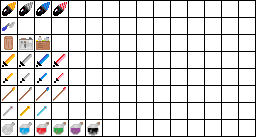
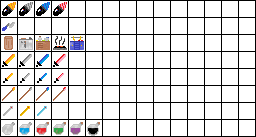
added fireplace, a tile that provides player with health regeneration when nearby

Changed region(s): [[0.1875, 0.2628, 0.3438, 0.3796], [0.3438, 0.9343, 0.375, 0.9927]]

diff --git a/src/com/company/Board/Board.java b/src/com/company/Board/Board.java
@@ -4,6 +4,7 @@ import com.company.CaveExplorer;
 import com.company.GameValues;
 import com.company.MonsterSpawnerAndHandler;
 import com.company.Scenes.MainGameScene;
+import com.company.Tiles.DynamicTile;
 import com.company.Tiles.Tile;
 import com.company.Tiles.TileTypes;
 import javafx.scene.effect.ColorAdjust;
@@ -103,6 +104,13 @@ public class Board extends Pane {
     }
 
     // culls distant tiles
+    private void cullTile(int x, int y){
+        getChildren().remove(getTiles()[x][y]);
+        if(getTiles()[x][y] instanceof DynamicTile){
+            ((DynamicTile)getTiles()[x][y]).getChanges().stop();
+        }
+        getTiles()[x][y] = null;
+    }
     public void cullDistantTiles(int range, int cullWidth) {
 
         int xMin = CaveExplorer.getPlayerCharacter().roundTileX() - range >= 0 ? CaveExplorer.getPlayerCharacter().roundTileX() - range : 0;
@@ -113,8 +121,7 @@ public class Board extends Pane {
         if (xMin > cullWidth) {
             for (int x = xMin; x < xMin + cullWidth; x++) {
                 for (int y = yMin; y < yMax; y++) {
-                    getChildren().remove(getTiles()[x][y]);
-                    getTiles()[x][y] = null;
+                   cullTile(x,y);
                 }
             }
         }
@@ -122,8 +129,7 @@ public class Board extends Pane {
         if (yMax < MainGameScene.getBoard().getBoardTileTypes()[0].length - cullWidth) {
             for (int x = xMax - cullWidth; x < xMax; x++) {
                 for (int y = yMin; y < yMax; y++) {
-                    getChildren().remove(getTiles()[x][y]);
-                    getTiles()[x][y] = null;
+                    cullTile(x,y);
                 }
             }
         }
@@ -131,8 +137,7 @@ public class Board extends Pane {
         if (yMin > cullWidth) {
             for (int x = xMin; x < xMax; x++) {
                 for (int y = yMin; y < yMin + cullWidth; y++) {
-                    getChildren().remove(getTiles()[x][y]);
-                    getTiles()[x][y] = null;
+                    cullTile(x,y);
                 }
             }
         }
@@ -140,8 +145,7 @@ public class Board extends Pane {
         if (xMax < MainGameScene.getBoard().getBoardTileTypes().length - cullWidth) {
             for (int x = xMin; x < xMax; x++) {
                 for (int y = yMax - cullWidth; y < yMax; y++) {
-                    getChildren().remove(getTiles()[x][y]);
-                    getTiles()[x][y] = null;
+                    cullTile(x,y);
                 }
             }
         }

diff --git a/src/com/company/HUD/InventoryWindow/CraftingPane.java b/src/com/company/HUD/InventoryWindow/CraftingPane.java
@@ -3,6 +3,7 @@ package com.company.HUD.InventoryWindow;
 import com.company.CaveExplorer;
 import com.company.Crafting.CraftingRecipe;
 import com.company.Crafting.PlaceableObjects.Recipe_AlchemyLab;
+import com.company.Crafting.PlaceableObjects.Recipe_Fireplace;
 import com.company.Crafting.PlaceableObjects.Recipe_Workshop;
 import com.company.Crafting.PotionsAndElixirs.*;
 import com.company.Crafting.Tools.*;
@@ -97,16 +98,16 @@ public class CraftingPane extends ScrollPane {
 
 
         private void hoverOn(){
-            setBackground(new Background(new BackgroundFill(GameValues.GUI_FULL_BLUE, new CornerRadii(5), null)));
+            setBackground(new Background(new BackgroundFill(GameValues.GUI_FULL_BLUE_OPAQUE, new CornerRadii(5), null)));
         }
 
         private void hoverOff(){
-            setBackground(new Background(new BackgroundFill(GameValues.GUI_FLASH_BLUE, new CornerRadii(5), null)));
+            setBackground(new Background(new BackgroundFill(GameValues.GUI_OVERLAY_BLUE_OPAQUE, new CornerRadii(5), null)));
         }
 
         private CraftingRecipePane(CraftingRecipe craftingRecipe){
             setPrefSize(PREF_WIDTH-9, 30);
-            setBackground(new Background(new BackgroundFill(GameValues.GUI_FLASH_BLUE, new CornerRadii(5), null)));
+            setBackground(new Background(new BackgroundFill(GameValues.GUI_OVERLAY_BLUE_OPAQUE, new CornerRadii(5), null)));
 
 
 
@@ -121,7 +122,7 @@ public class CraftingPane extends ScrollPane {
                 setOnMouseExited(e->hoverOff());
                 setOnMouseDragExited(e->hoverOff());
             } else {
-                setOpacity(0.5);
+                setOpacity(0.6);
             }
 
 
@@ -178,7 +179,8 @@ public class CraftingPane extends ScrollPane {
 
         // available always
         addRecipesToDisplay(
-            new Recipe_Workshop()
+            new Recipe_Workshop(),
+            new Recipe_Fireplace()
         );
 
         // available near water

diff --git a/src/com/company/Tiles/Tile_Const_Fireplace.java b/src/com/company/Tiles/Tile_Const_Fireplace.java
@@ -1,0 +1,52 @@
+package com.company.Tiles;
+
+import com.company.CaveExplorer;
+import com.company.ImageBank;
+import javafx.animation.AnimationTimer;
+
+public class Tile_Const_Fireplace extends DynamicTile {
+
+    @Override
+    void buildBackGround() {
+        setImage(ImageBank.getMapTiles1());
+        setViewByRowAndCol(7,0);
+    }
+
+    private Tile_Const_Fireplace thisTile = this;
+
+    @Override
+    protected void setChanges() {
+
+        changes = new AnimationTimer() {
+
+            int time = 0;
+            int rotationLength = 100;
+            double maxRange = 2;
+
+            // player slowly regenerates while near the fireplace
+
+            @Override
+            public void handle(long now) {
+                time++;
+                if(time >= rotationLength){
+                    time=0;
+                    double x = CaveExplorer.getPlayerCharacter().getTileX() - thisTile.x;
+                    double y = CaveExplorer.getPlayerCharacter().getTileY() - thisTile.y;
+                    if(Math.abs(x) <= maxRange && Math.abs(y) <= maxRange){
+                        CaveExplorer.getPlayerCharacter().healDamage(1);
+                    }
+                }
+            }
+        };
+    }
+
+
+
+    public Tile_Const_Fireplace(){
+        super();
+        setMovementBlocking(true);
+        setBreakable(true);
+        setReplaceable(false);
+        setDurability(5);
+    }
+}

diff --git a/src/com/company/HUD/InventoryWindow/ItemPane.java b/src/com/company/HUD/InventoryWindow/ItemPane.java
@@ -42,13 +42,13 @@ public class ItemPane extends StackPane {
 
 
     public void select(){
-        setBackground(new Background(new BackgroundFill(GameValues.GUI_FULL_BLUE, new CornerRadii(10), new Insets(5,5,5,5))));
+        setBackground(new Background(new BackgroundFill(GameValues.GUI_FULL_BLUE_OPAQUE, new CornerRadii(10), new Insets(5,5,5,5))));
         setScaleX(1.05);
         setScaleX(1.05);
     }
 
     public void unSelect(){
-        setBackground(new Background(new BackgroundFill(GameValues.GUI_OVERLAY_BLUE, new CornerRadii(10), new Insets(5,5,5,5))));
+        setBackground(new Background(new BackgroundFill(GameValues.GUI_OVERLAY_BLUE_OPAQUE, new CornerRadii(10), new Insets(5,5,5,5))));
         setScaleX(1.00);
         setScaleX(1.00);
     }
@@ -58,7 +58,7 @@ public class ItemPane extends StackPane {
         this.col = col;
         this.row = row;
         setPrefSize(40,40);
-        setBackground(new Background(new BackgroundFill(GameValues.GUI_OVERLAY_BLUE, new CornerRadii(10), new Insets(5,5,5,5))));
+        setBackground(new Background(new BackgroundFill(GameValues.GUI_OVERLAY_BLUE_OPAQUE, new CornerRadii(10), new Insets(5,5,5,5))));
         setAlignment(Pos.CENTER);
         buildItemView();
 

diff --git a/src/com/company/Agent/PlayerCharacter/PlayerInventory.java b/src/com/company/Agent/PlayerCharacter/PlayerInventory.java
@@ -3,10 +3,8 @@ package com.company.Agent.PlayerCharacter;
 import com.company.Items.Daggers.CopperDagger;
 import com.company.Items.Drills.CopperDrill;
 import com.company.Items.Item;
+import com.company.Items.PlaceableObjects.Fireplace;
 import com.company.Items.PotionsAndElixirs.PotionOfHealing;
-import com.company.Items.Staves.GoldStaff;
-import com.company.Items.Staves.PlatinumStaff;
-import com.company.Items.Staves.SilverStaff;
 import com.company.Resources.Resource;
 import com.company.Resources.ResourceType;
 import com.company.Scenes.MainGameScene;
@@ -123,10 +121,7 @@ public class PlayerInventory {
     private void addStartingItems(){
         itemsInInventory[0][5] = new CopperDrill();
         itemsInInventory[1][5] = new CopperDagger();
-        itemsInInventory[0][0] = new PotionOfHealing();
-        itemsInInventory[1][0] = new SilverStaff();
-        itemsInInventory[2][0] = new GoldStaff();
-        itemsInInventory[3][0] = new PlatinumStaff();
+        itemsInInventory[2][5] = new PotionOfHealing();
     }
 
 

diff --git a/src/com/company/PngMapGenerator.java b/src/com/company/PngMapGenerator.java
@@ -44,8 +44,10 @@ public final class PngMapGenerator {
                     case 14 : g2d.setColor(new Color(0,0,80)); break; // water
                     case 15 : g2d.setColor(new Color(250,20,0)); break; // lava
                     case 16 : g2d.setColor(new Color(80,40,0)); break; // crate
-                    case 17 : g2d.setColor(new Color(40,40,30)); break; // workshop
-                    case 18 : g2d.setColor(new Color(90,40,30)); break; // alchemy lab
+                    case 17 : g2d.setColor(new Color(80,80,80)); break; // gravel
+                    case 18 : g2d.setColor(new Color(40,40,30)); break; // workshop
+                    case 19 : g2d.setColor(new Color(90,40,30)); break; // alchemy lab
+                    case 20 : g2d.setColor(new Color(20,20,20)); break; // fireplace
                 }
                 g2d.drawLine(x, y, x, y);
             }

diff --git a/src/com/company/Items/ItemTypes.java b/src/com/company/Items/ItemTypes.java
@@ -11,6 +11,7 @@ import com.company.Items.Drills.CobaltDrill;
 import com.company.Items.Drills.CopperDrill;
 import com.company.Items.Drills.IronDrill;
 import com.company.Items.PlaceableObjects.AlchemyLab;
+import com.company.Items.PlaceableObjects.Fireplace;
 import com.company.Items.PlaceableObjects.WoodenSupport;
 import com.company.Items.PlaceableObjects.Workshop;
 import com.company.Items.PotionsAndElixirs.*;
@@ -87,6 +88,7 @@ final public class ItemTypes {
         getItemTypeMap().put(27, SilverStaff.class);
         getItemTypeMap().put(28, GoldStaff.class);
         getItemTypeMap().put(29, PlatinumStaff.class);
+        getItemTypeMap().put(30, Fireplace.class);
 
 
     }

diff --git a/src/com/company/GameValues.java b/src/com/company/GameValues.java
@@ -29,9 +29,11 @@ public final class GameValues {
 
     // gui colors
     public static final Color GUI_FULL_BLUE = new Color(0.1,0.3,0.6,0.8);
+    public static final Color GUI_FULL_BLUE_OPAQUE = new Color(0.1,0.3,0.6,0.8);
     public static final Color GUI_FLASH_BLUE = new Color(0.2,0.7,0.8,0.8);
     public static final Color GUI_MAIN_BLUE = new Color(0.1,0.6,0.9,0.7);
     public static final Color GUI_OVERLAY_BLUE = new Color(0.1,0.7,1,0.4);
+    public static final Color GUI_OVERLAY_BLUE_OPAQUE = new Color(0.1,0.7,1,1);
     public static final Color HP_BAR_FRONT = new Color(0.6,0.1,0.1,1);
     public static final Color HP_BAR_BASE = new Color(0.3,0.1,0.1,1);
 

diff --git a/src/com/company/Tiles/DynamicTile.java b/src/com/company/Tiles/DynamicTile.java
@@ -1,0 +1,25 @@
+package com.company.Tiles;
+
+import javafx.animation.AnimationTimer;
+
+abstract public class DynamicTile extends Tile{
+
+    protected AnimationTimer changes;
+    public AnimationTimer getChanges() {
+        return changes;
+    }
+    abstract protected void setChanges();
+
+    @Override
+    protected void crumble() {
+        super.crumble();
+        changes.stop();
+    }
+
+    public DynamicTile(){
+        super();
+        setChanges();
+        changes.start();
+
+    }
+}

diff --git a/src/com/company/Crafting/Weapons/Recipe_GoldStaff.java b/src/com/company/Crafting/Weapons/Recipe_GoldStaff.java
@@ -1,0 +1,14 @@
+package com.company.Crafting.Weapons;
+
+import com.company.Crafting.CraftingRecipe;
+import com.company.Items.Staves.SilverStaff;
+import com.company.Resources.ResourceType;
+
+final public class Recipe_GoldStaff extends CraftingRecipe {
+    public Recipe_GoldStaff(){
+        super(SilverStaff.class);
+        setRequiredResource(ResourceType.BLOOD_RUBY, 5);
+        setRequiredResource(ResourceType.GOLD, 20);
+        setRequiredResource(ResourceType.SULFUR, 10);
+    }
+}

diff --git a/src/com/company/Tiles/Tile_Const_AlchemyLab.java b/src/com/company/Tiles/Tile_Const_AlchemyLab.java
@@ -1,8 +1,15 @@
 package com.company.Tiles;
 
+import com.company.CaveExplorer;
 import com.company.ImageBank;
+import com.company.Items.PlaceableObjects.AlchemyLab;
 
-final public class Tile_Const_AlchemyLab extends Tile {
+final public class Tile_Const_AlchemyLab extends Tile implements IResourceDropping {
+
+    @Override
+    public void dropResource() {
+        CaveExplorer.getPlayerCharacter().gainItem(new AlchemyLab());
+    }
 
     @Override
     void buildBackGround() {

diff --git a/src/com/company/Crafting/Weapons/Recipe_PlatinumStaff.java b/src/com/company/Crafting/Weapons/Recipe_PlatinumStaff.java
@@ -1,0 +1,14 @@
+package com.company.Crafting.Weapons;
+
+import com.company.Crafting.CraftingRecipe;
+import com.company.Items.Staves.PlatinumStaff;
+
+import com.company.Resources.ResourceType;
+
+final public class Recipe_PlatinumStaff extends CraftingRecipe {
+    public Recipe_PlatinumStaff(){
+        super(PlatinumStaff.class);
+        setRequiredResource(ResourceType.BLOOD_RUBY, 5);
+        setRequiredResource(ResourceType.PLATINUM, 30);
+    }
+}
